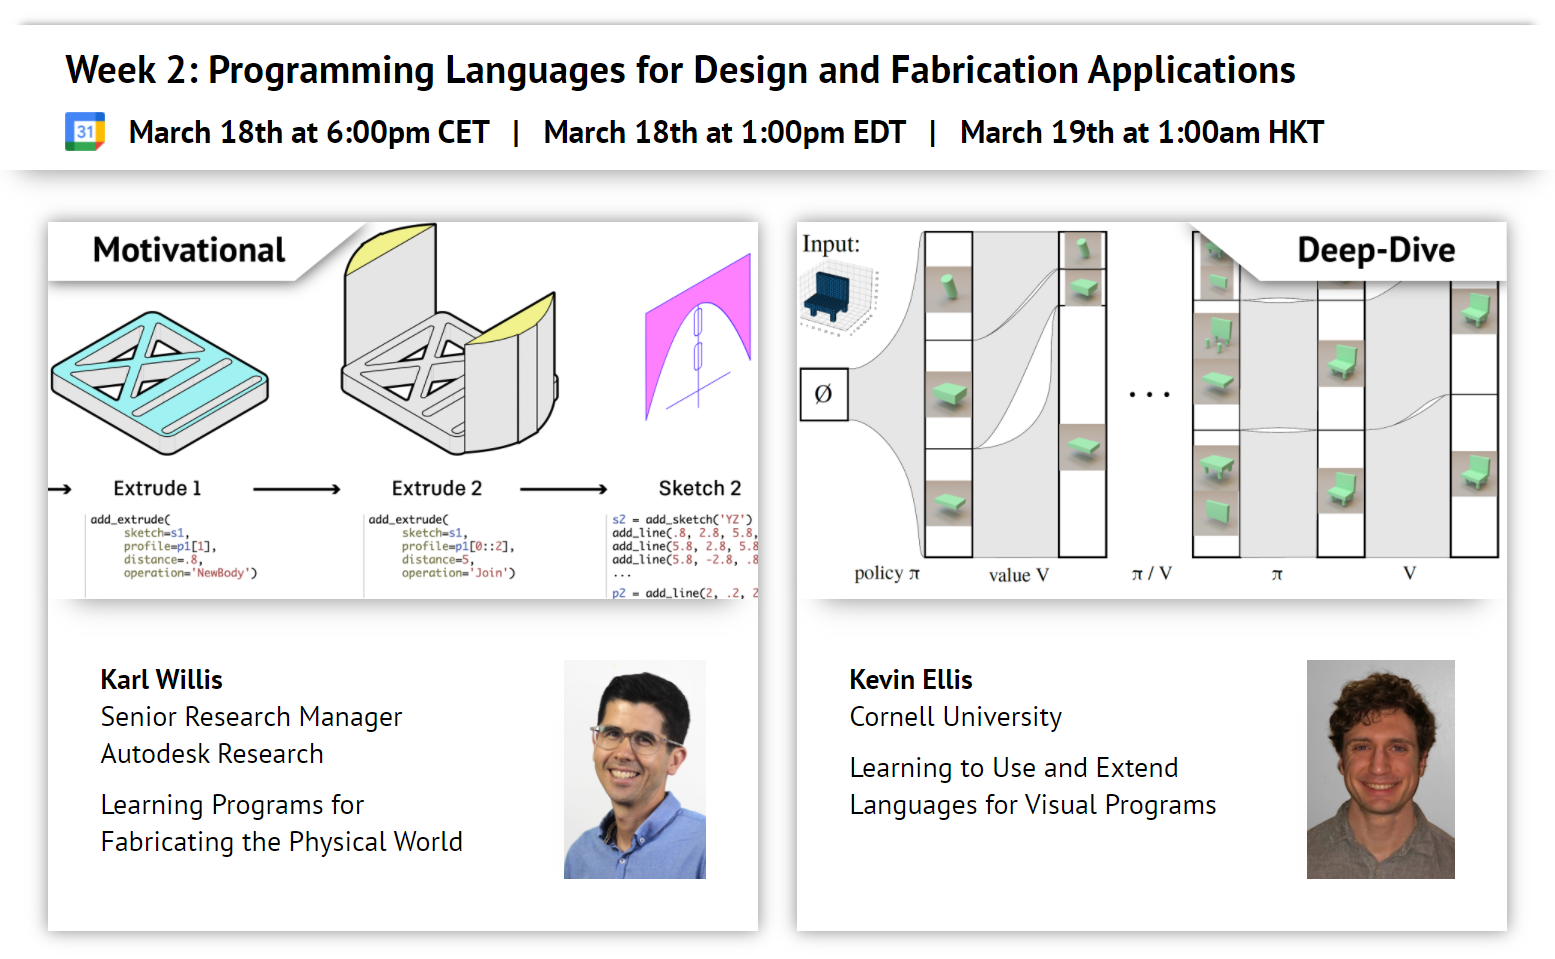
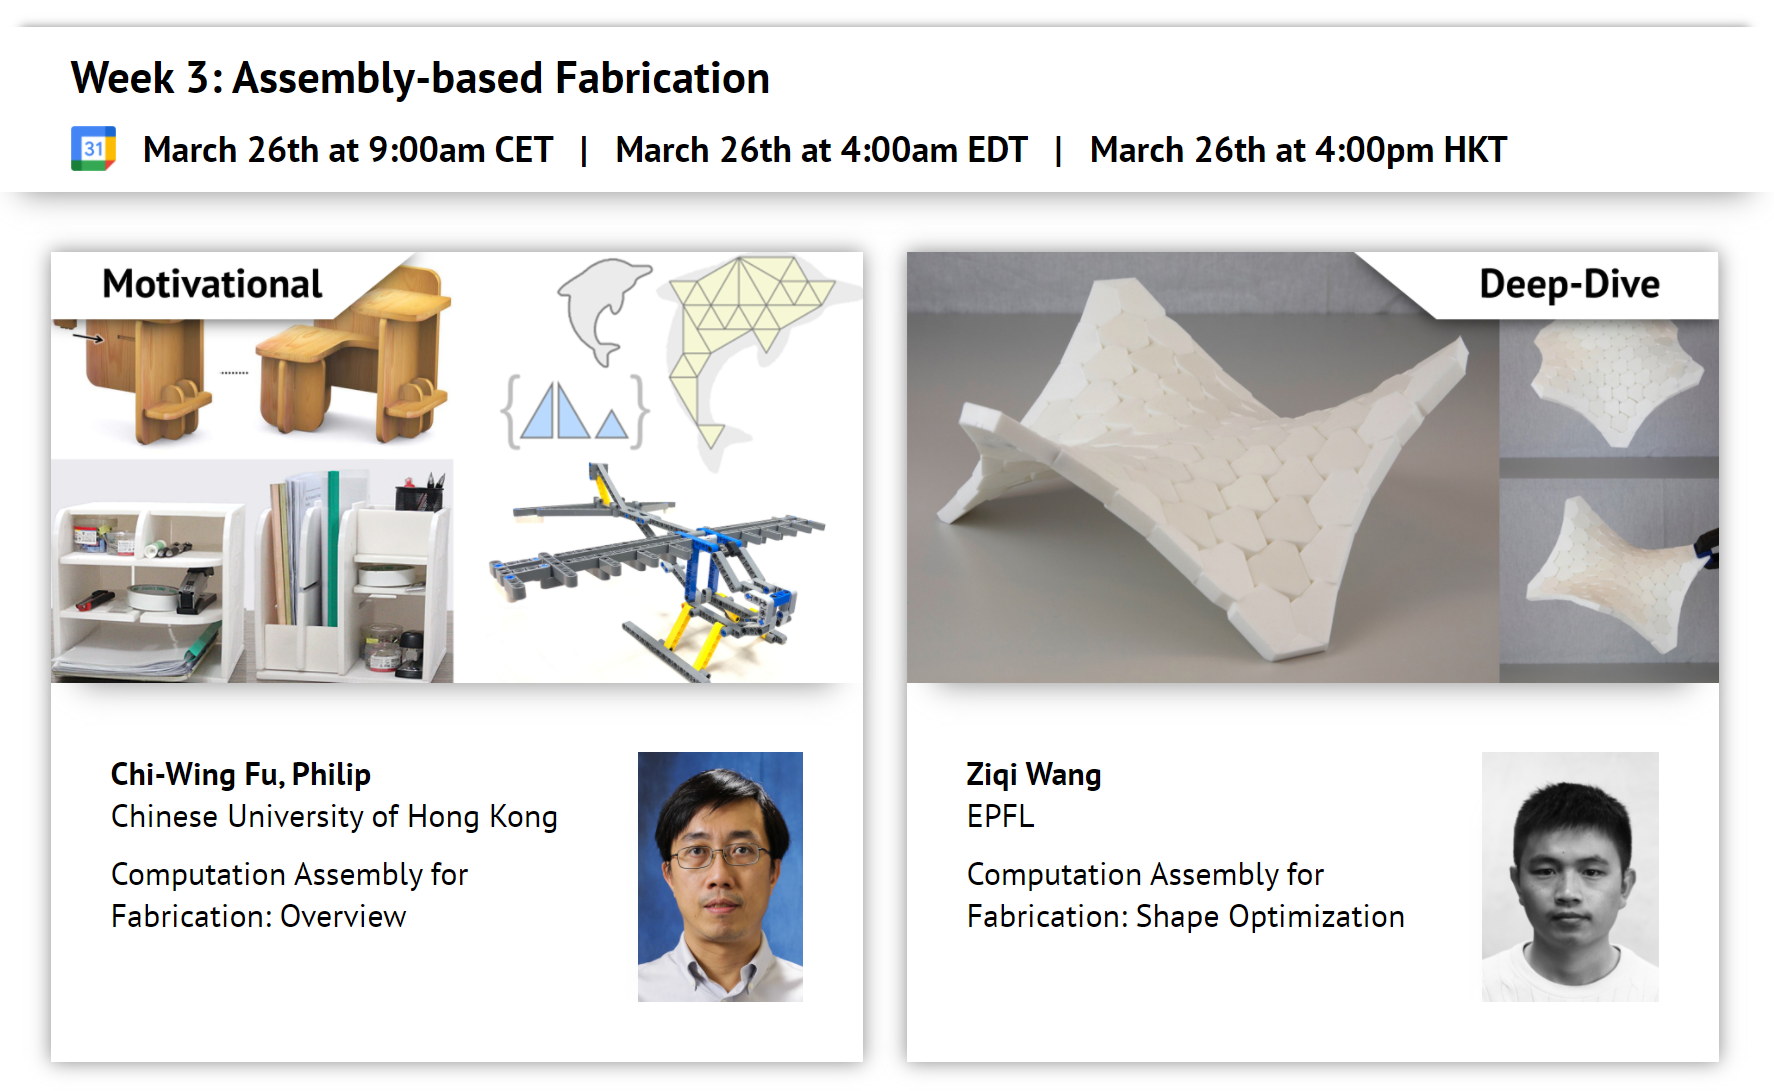
update

diff --git a/index.html b/index.html
@@ -30,49 +30,12 @@
       <div>Add to your calendar&nbsp;&nbsp;<a href="https://calendar.google.com/calendar/u/0/embed?mode=AGENDA&src=fabrication.seminar%40gmail.com"><img src="images/calendar.png" /></a></div>
     </div>
     <div class="main_links">
-      <div>Join The Talks <a href="https://youtu.be/Jwl9gNQWBm4"><img class="zoom" style="max-height: 25px;" src="images/youtube.png" /></a></div>
+      <div>Join The Talks <a href="https://youtu.be/cbLEFW8-_Vo"><img class="zoom" style="max-height: 25px;" src="images/youtube.png" /></a></div>
       <div class="shifter">And The Discussion <a href="https://discord.gg/XMrTSvNNTA"><img class="discord" src="images/discord.png" /></a></div>
     </div>
 </div>
 
 <div class="row">
-
-  <div class="small_header">
-    <div class="left">
-      Week 2: Programming Languages for Design and Fabrication Applications
-    </div>
-    <div class="right">
-      <a href="https://calendar.google.com/calendar/u/0/embed?mode=AGENDA&src=fabrication.seminar%40gmail.com"><img src="images/calendar.png" /></a>&nbsp;&nbsp;
-        March 18th at 6:00pm CET &nbsp;&nbsp;|&nbsp;&nbsp; March 18th at 1:00pm EDT &nbsp;&nbsp;|&nbsp;&nbsp; March 19th at 1:00am HKT
-    </div>
-  </div>
-  <div style="clear: both"></div>
-
-  <div class="talks">
-    <div class="motivational">
-        <a href="https://karlddwillis.com/"><img src="images/karl_willis_motivational.png" /></a>
-        <div class="info">
-            <div>
-              <a href="https://karlddwillis.com/"><div class="name">Karl Willis</div></a>
-              <div class="affiliation">Senior Research Manager<br/>Autodesk Research</div>
-              <div class="title">Learning Programs for Fabricating the Physical World</div>
-            </div>
-            <a href="https://karlddwillis.com/"><img src="images/karl_willis.jpg" /></a>
-        </div>
-    </div>
-    <div class="deepdive">
-      <a href="https://www.cs.cornell.edu/~ellisk/"><img src="images/kevin_ellis_deepdive.png" /></a>
-      <div class="info">
-          <div>
-              <a href="https://www.cs.cornell.edu/~ellisk/"><div class="name">Kevin Ellis</div></a>
-              <div class="affiliation">Cornell University</div>
-              <div class="title">Learning to Use and Extend Languages for Visual Programs</div>
-          </div>
-          <a href="https://www.cs.cornell.edu/~ellisk/"><img src="images/kevin_ellis.jpg" /></a>
-      </div>
-    </div>
-</div>
-<div style="clear: both"></div>  
 
 <div class="small_header">
   <div class="left">
@@ -226,7 +189,7 @@
 
 <div class="small_header">
   <div class="left">
-    Week 1: Computational Architecture <a href="https://www.youtube.com/watch?v=yKF4HLBJTP8&t=4s"><img class="zoom" style="max-height: 25px;margin-bottom: -5px;" src="images/youtube.png" /></a>
+    Week 1: Computational Architecture <a href="https://www.youtube.com/watch?v=yKF4HLBJTP8"><img class="zoom" style="max-height: 22px;margin-bottom: -2px;" src="images/youtube.png" /></a>
   </div>
   <div>
     
@@ -264,6 +227,43 @@
   </div>
 </div>
 <div style="clear: both"></div>
+
+<div class="small_header">
+  <div class="left">
+    Week 2: Programming Languages for Design and Fabrication Applications <a href="https://youtu.be/Jwl9gNQWBm4"><img class="zoom" style="max-height: 22px;margin-bottom: -2px;" src="images/youtube.png" /></a>
+  </div>
+  <div class="right">
+    <a href="https://calendar.google.com/calendar/u/0/embed?mode=AGENDA&src=fabrication.seminar%40gmail.com"><img src="images/calendar.png" /></a>&nbsp;&nbsp;
+      March 18th at 6:00pm CET &nbsp;&nbsp;|&nbsp;&nbsp; March 18th at 1:00pm EDT &nbsp;&nbsp;|&nbsp;&nbsp; March 19th at 1:00am HKT
+  </div>
+</div>
+<div style="clear: both"></div>
+
+<div class="talks">
+  <div class="motivational">
+      <a href="https://karlddwillis.com/"><img src="images/karl_willis_motivational.png" /></a>
+      <div class="info">
+          <div>
+            <a href="https://karlddwillis.com/"><div class="name">Karl Willis</div></a>
+            <div class="affiliation">Senior Research Manager<br/>Autodesk Research</div>
+            <div class="title">Learning Programs for Fabricating the Physical World</div>
+          </div>
+          <a href="https://karlddwillis.com/"><img src="images/karl_willis.jpg" /></a>
+      </div>
+  </div>
+  <div class="deepdive">
+    <a href="https://www.cs.cornell.edu/~ellisk/"><img src="images/kevin_ellis_deepdive.png" /></a>
+    <div class="info">
+        <div>
+            <a href="https://www.cs.cornell.edu/~ellisk/"><div class="name">Kevin Ellis</div></a>
+            <div class="affiliation">Cornell University</div>
+            <div class="title">Learning to Use and Extend Languages for Visual Programs</div>
+        </div>
+        <a href="https://www.cs.cornell.edu/~ellisk/"><img src="images/kevin_ellis.jpg" /></a>
+    </div>
+  </div>
+</div>
+<div style="clear: both"></div>  
 
 <div class="footer">
   <hr />
